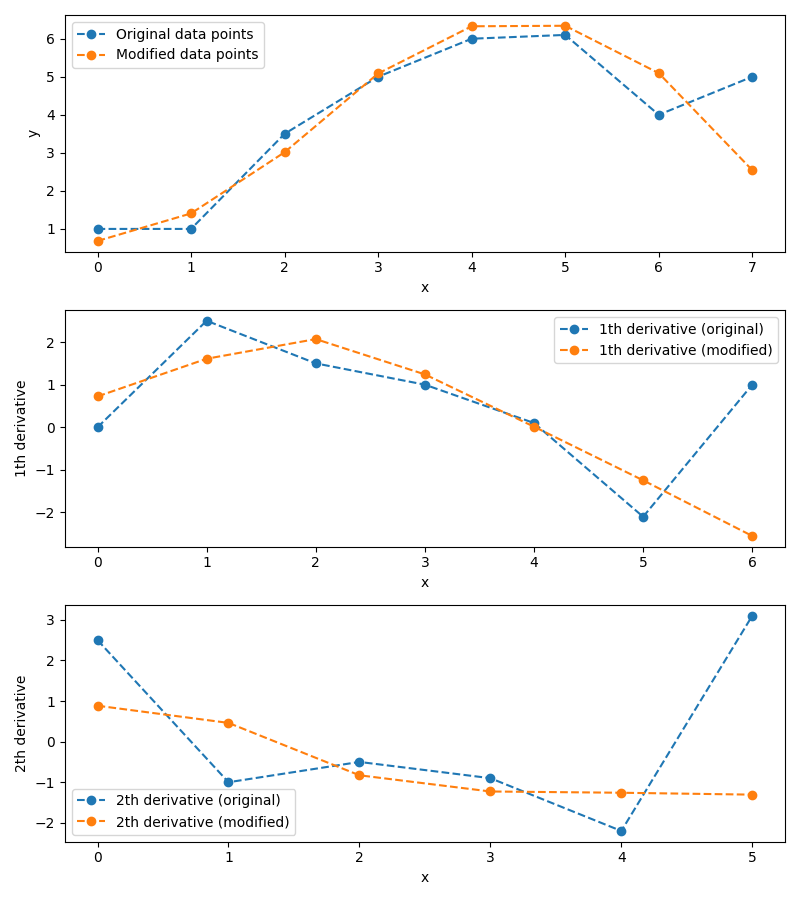
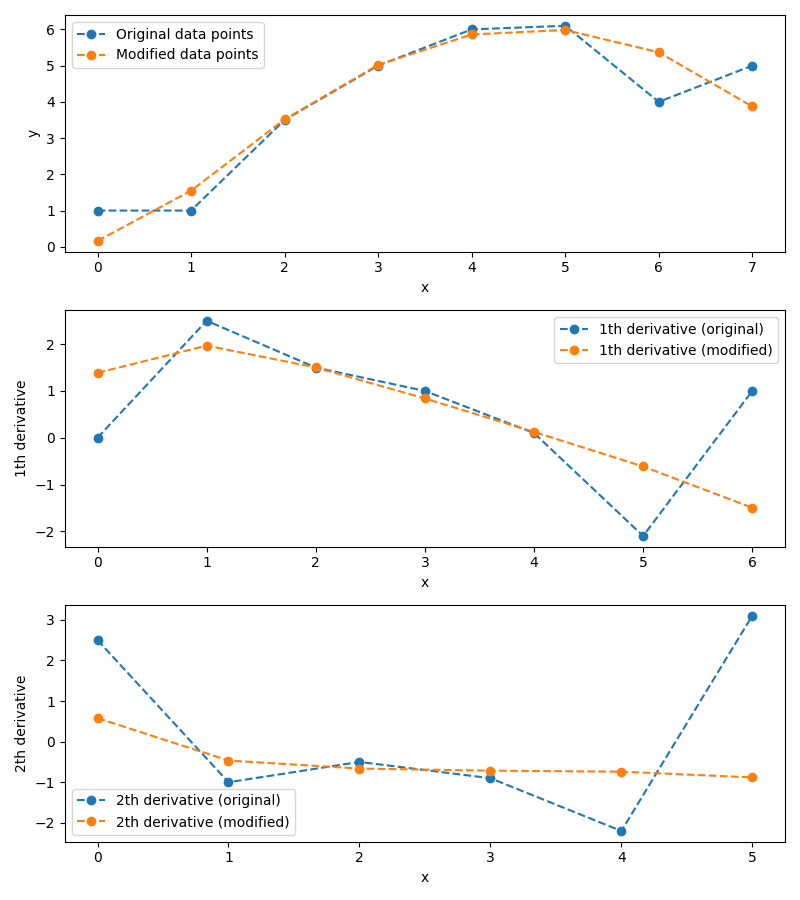
add fake last dot for ensure_derivative and changed random to uniform in smoother

diff --git a/monotonic_derivative/curve_smoothing.py b/monotonic_derivative/curve_smoothing.py
@@ -1,4 +1,3 @@
-
 import numpy as np
 from scipy.interpolate import CubicSpline
 from scipy.optimize import minimize
@@ -7,60 +6,66 @@ from io import BytesIO
 import imageio
 import os
 
+
 def initialize_population(population_size, num_points):
     """
     Initializes the population with random individuals.
-    
+
     Args:
         population_size (int): Number of individuals in the population.
         num_points (int): Number of points in each individual.
-    
+
     Returns:
         numpy.ndarray: Initial population as a 2D array.
     """
-    return np.random.randint(0, 100, size=(population_size, num_points))
+    return np.random.uniform(0, 100, size=(population_size, num_points))
+
 
 def calculate_fitness(individual, points, alpha):
     """
     Calculates the fitness of an individual based on the total deviation from the original points
     and the abrupt changes in the smoothed curve.
-    
+
     Args:
         individual (numpy.ndarray): The individual for which the fitness is calculated.
         points (numpy.ndarray): The original points.
         alpha (float): Weighting factor for the total deviation (range: 0 to 1).
-    
+
     Returns:
         float: Fitness value for the individual.
     """
     total_deviation = np.sum(np.abs(individual - points))
     abrupt_changes = np.sum(np.abs(np.diff(np.diff(individual))))
-    return - (alpha * total_deviation + (1 - alpha) * abrupt_changes)
+    return -(alpha * total_deviation + (1 - alpha) * abrupt_changes)
+
 
 def selection(population, points, alpha):
     """
     Selects the top two individuals from the population based on their fitness.
-    
+
     Args:
         population (numpy.ndarray): The current population.
         points (numpy.ndarray): The original points.
         alpha (float): Weighting factor for the total deviation (range: 0 to 1).
-    
+
     Returns:
         numpy.ndarray: The top two individuals from the population.
     """
-    fitness = [calculate_fitness(individual, points, alpha) for individual in population]
+    fitness = [
+        calculate_fitness(individual, points, alpha) for individual in population
+    ]
     indices = np.argsort(fitness)[-2:]
     return population[indices]
+
 
 def crossover(parent1, parent2):
     """
     Performs crossover between two parents to create two offspring.
-    
+
     Args:
         parent1 (numpy.ndarray): The first parent.
         parent2 (numpy.ndarray): The second parent.
-    
+
     Returns:
         tuple: Two offspring as numpy arrays.
     """
@@ -69,27 +74,36 @@ def crossover(parent1, parent2):
     child2 = np.concatenate((parent2[:crossover_point], parent1[crossover_point:]))
     return child1, child2
 
+
 def mutation(individual, mutation_rate):
     """
     Mutates an individual by changing the value of a point with a certain probability.
-    
+
     Args:
         individual (numpy.ndarray): The individual to be mutated.
         mutation_rate (float): The probability of mutating a point (range: 0 to 1).
-    
+
     Returns:
         numpy.ndarray: The mutated individual.
     """
     for i in range(len(individual)):
         if np.random.random() < mutation_rate:
-            individual[i] = np.random.randint(0, 100)
+            individual[i] = np.random.uniform(0, 100)
     return individual
 
 
-def curve_smoothing(points, population_size=100, num_generations=1000, mutation_rate=0.1, alpha=0.5, save_plots=False, output_folder="output"):
+def curve_smoothing(
+    points,
+    population_size=100,
+    num_generations=1000,
+    mutation_rate=0.1,
+    alpha=0.5,
+    save_plots=False,
+    output_folder="output",
+):
     """
     Apply a genetic algorithm to smooth a curve represented by a sequence of points.
-    
+
     Parameters:
     points (numpy.array): An array of Y-coordinates representing the original curve.
     population_size (int, optional): The number of individuals in the population. Default is 100.
@@ -98,7 +112,7 @@ def curve_smoothing(points, population_size=100, num_generations=1000, mutation_
     alpha (float, optional): The trade-off between smoothness and similarity to the original curve. Default is 0.5.
     save_plots (bool, optional): Whether to save the progress of the algorithm as a GIF. Default is False.
     output_folder (str, optional): The folder to save the progress GIF if `save_plots` is True. Default is "output".
-    
+
     Returns:
     numpy.array: The best individual (smoothed curve) found by the genetic algorithm.
     """
@@ -106,52 +120,48 @@ def curve_smoothing(points, population_size=100, num_generations=1000, mutation_
     if save_plots:
         if not os.path.exists(output_folder):
             os.makedirs(output_folder)
-    
+
     # Initialize the population
     population = initialize_population(population_size, len(points))
     images = []
-    
+
     # Iterate through the generations
     for generation in range(num_generations):
         # Select the parents based on their fitness
         parents = selection(population, points, alpha)
         children = []
-        
+
         # Create the next generation by crossover and mutation
         for i in range(int(population_size / 2)):
             child1, child2 = crossover(parents[0], parents[1])
             children.append(mutation(child1, mutation_rate))
             children.append(mutation(child2, mutation_rate))
-        
+
         # Update the population
         population = np.array(children)
-        
+
         # Save the progress as images for the GIF
         if save_plots and generation % 50 == 0:
             best_individual = selection(population, points, alpha)[0]
-            plt.plot(points, 'bo-', label='Original curve')
-            plt.plot(best_individual, 'ro-', label='Smoothed curve')
+            plt.plot(points, "bo-", label="Original curve")
+            plt.plot(best_individual, "ro-", label="Smoothed curve")
             plt.legend()
-            
+
             if generation == num_generations - 1:
-                plt.title('Final curve', fontsize=24, alpha=0.2)
-            
+                plt.title("Final curve", fontsize=24, alpha=0.2)
+
             buf = BytesIO()
-            plt.savefig(buf, format='png')
+            plt.savefig(buf, format="png")
             buf.seek(0)
             images.append(imageio.imread(buf))
             plt.clf()
-    
+
     # Select the best individual from the final population
     best_individual = selection(population, points, alpha)[0]
-    
+
     # Save the progress as a GIF
     if save_plots:
         gif_filename = os.path.join(output_folder, "progress.gif")
         imageio.mimsave(gif_filename, images[:-1] + [images[-1]] * 15, duration=0.2)
-    
+
     return best_individual
-
-
-
-

diff --git a/monotonic_derivative/monotonic_derivative.py b/monotonic_derivative/monotonic_derivative.py
@@ -21,9 +21,11 @@ def extend_data(x, y, dx=0.1, dy=0.1, force_negative_derivative=False):
     x_extended: numpy array, the extended x data points
     y_extended: numpy array, the extended y data points
     """
-    x_extended = np.insert(x, 0, x[0] - dx)
+    x = np.insert(x, 0, x[0] - dx)
+    x_extended = np.insert(x, len(x), x[-1] + dx)
+    y = np.insert(y, 0, y[0] - dy if not force_negative_derivative else y[0] + dy)
     y_extended = np.insert(
-        y, 0, y[0] - dy if not force_negative_derivative else y[0] + dy
+        y, len(y), y[-1] - dy if not force_negative_derivative else y[-1] + dy
     )
 
     return x_extended, y_extended
@@ -179,9 +181,9 @@ def ensure_monotonic_derivative(
         # if optimization is successful and the termination condition is not 'xtol', break the loop
         if res.success and "xtol" not in res.message:
             break
-    y = y[1:]  # to remove 1st fake dot
-    modified_y = res.x[1:] if res else y
-    x = x[1:]
+    y = y[1:-1]  # to remove 1st fake dot and last
+    modified_y = res.x[1:-1] if res else y
+    x = x[1:-1]
     if verbose:
         print("Original y    :", y)
         print("Modified y    :", modified_y)

diff --git a/test_fix.py b/test_fix.py
@@ -16,8 +16,17 @@ y_ensure = ensure_monotonic_derivative(
     verbose=True,
     save_plot=True,
 )
-print(y_ensure)
 y_smooth = curve_smoothing(
-    y_ensure, population_size=100, num_generations=1000, alpha=0.5, save_plots=True
+    y_ensure, population_size=100, num_generations=1000, alpha=0.7, save_plots=True
 )
-print(y_smooth)
+print("smooth", y_smooth)
+"""
+y_ensure2 = ensure_monotonic_derivative(
+    x=np.arange(len(y_smooth)),
+    y=y_smooth,
+    degree=2,
+    force_negative_derivative=True,
+    verbose=True,
+    save_plot=True,
+)
+"""
